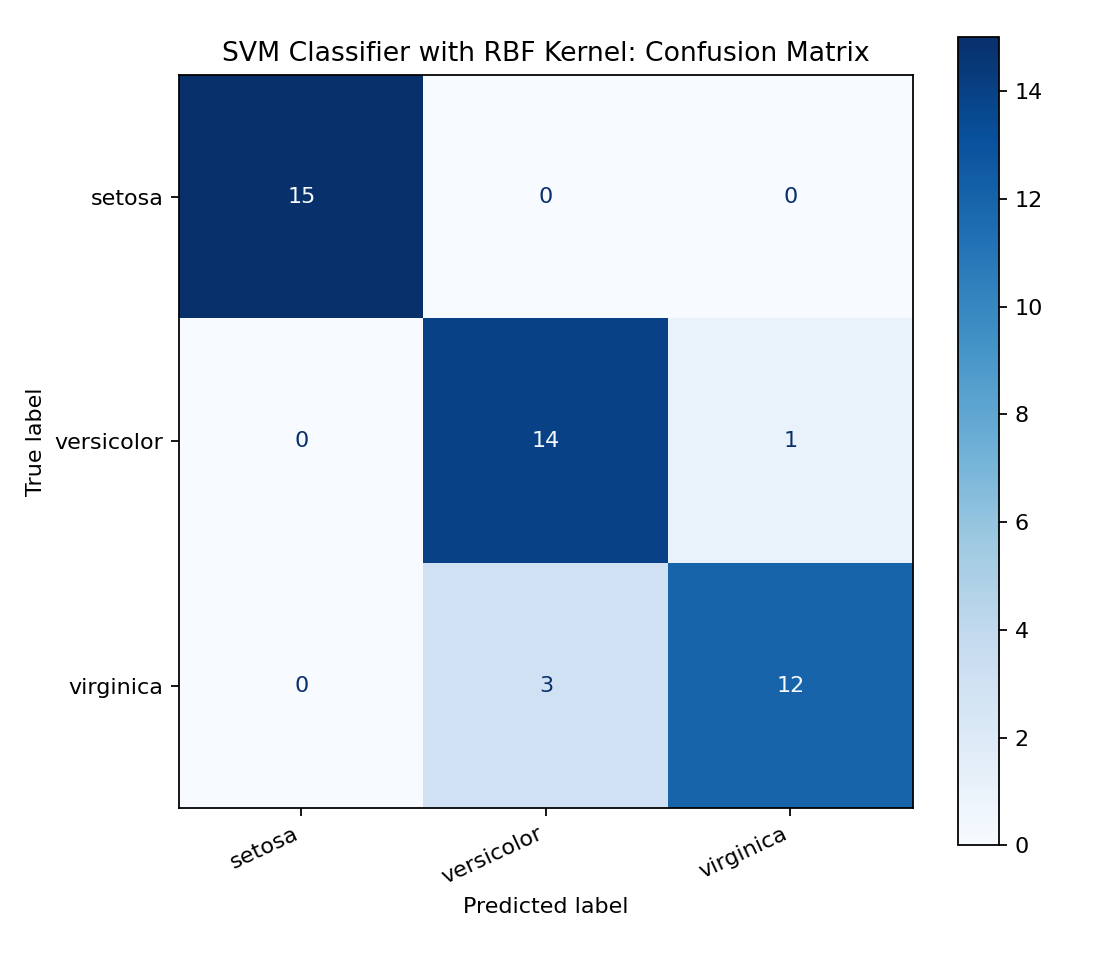
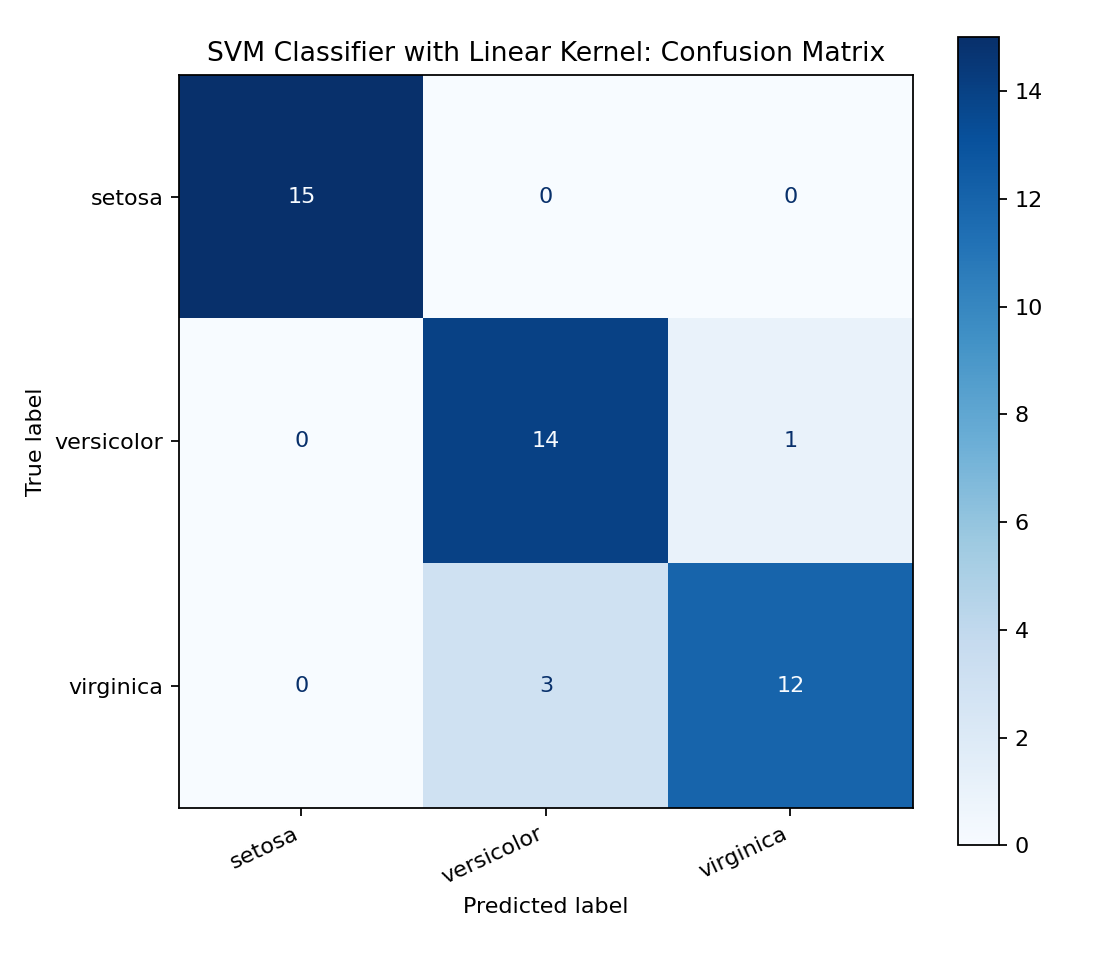
Week 5- Activity 1: Iris dataset - SVM model

Changed region(s): [[0.1875, 0.0312, 0.7812, 0.0625]]

diff --git a/Week5/Activity1/iris_svm_classification.py b/Week5/Activity1/iris_svm_classification.py
@@ -12,6 +12,7 @@ Step 4: Predict flower species and evaluate accuracy.
 
 # Step 1: Import sklearn datasets and SVM, plus support libraries for
 # data preparation, evaluation, and visualisation.
+import csv
 from pathlib import Path
 import os
 import tempfile
@@ -33,23 +34,16 @@ from sklearn.metrics import (
     recall_score,
 )
 from sklearn.model_selection import train_test_split
-from sklearn.pipeline import make_pipeline
 from sklearn.preprocessing import StandardScaler
 from sklearn.svm import SVC
 import matplotlib.pyplot as plt
-import pandas as pd
 
 
 BASE_DIR = Path(__file__).resolve().parent
 OUTPUT_DIR = BASE_DIR / "outputs"
 CLEANED_DATA_FILE = BASE_DIR / "cleaned_iris_dataset.csv"
 
-FEATURE_COLUMNS = ["sepal_length", "sepal_width", "petal_length", "petal_width"]
-TARGET_COLUMN = "species"
-CLASS_ORDER = ["setosa", "versicolor", "virginica"]
-TEST_SIZE = 0.3
-RANDOM_STATE = 15
-SVM_KERNEL = "rbf"
+SVM_KERNEL = "linear"
 
 CONFUSION_MATRIX_FILE = OUTPUT_DIR / "svm_confusion_matrix.png"
 PETAL_SCATTER_FILE = OUTPUT_DIR / "iris_petal_scatter.png"
@@ -61,41 +55,27 @@ def ensure_directories():
 
 
 # Step 2: Load the Iris dataset and prepare it for classification.
-def load_and_prepare_data():
-    """Load Iris from sklearn and perform basic data quality checks."""
+def load_iris_data():
+    """Load Iris from sklearn and define X features and y classes."""
     iris = datasets.load_iris()
 
-    # X contains the four numeric flower measurements. y contains the species
-    # class to be predicted.
-    df = pd.DataFrame(iris.data, columns=FEATURE_COLUMNS)
-    df[TARGET_COLUMN] = pd.Categorical.from_codes(iris.target, iris.target_names)
+    # Same structure as the teacher's sample code:
+    # X contains four numeric flower measurements.
+    # y contains the three species classes as numeric labels: 0, 1, and 2.
+    x = iris.data
+    y = iris.target
 
-    # Convert measurements to numeric values before model training.
-    for column in FEATURE_COLUMNS:
-        df[column] = pd.to_numeric(df[column], errors="coerce")
-
-    missing_summary = df.isna().sum().reset_index()
-    missing_summary.columns = ["Column", "Missing_Values"]
-    duplicate_count = int(df.duplicated().sum())
-
-    # Drop invalid records only if essential values are missing.
-    cleaned = df.dropna(subset=FEATURE_COLUMNS + [TARGET_COLUMN]).copy()
-    cleaned = cleaned.reset_index(drop=True)
-
-    return cleaned, missing_summary, duplicate_count
+    return iris, x, y
 
 
 # Step 3: Train the SVM classifier.
-def train_and_evaluate_model(cleaned):
+def train_and_evaluate_model(x, y):
     """Train one SVM classifier and return its test-set performance."""
-    x = cleaned[FEATURE_COLUMNS]
-    y = cleaned[TARGET_COLUMN]
-
     x_train, x_test, y_train, y_test = train_test_split(
         x,
         y,
-        test_size=TEST_SIZE,
-        random_state=RANDOM_STATE,
+        test_size=0.3,
+        random_state=42,
         stratify=y,
     )
 
@@ -103,43 +83,40 @@ def train_and_evaluate_model(cleaned):
     # X_train/y_train are used to train the model.
     # X_test/y_test are kept separate for evaluation.
     #
+    # Standardise the four feature columns before SVM training.
+    # fit_transform is used on training data, while transform applies the same
+    # scaling rule to the test data.
+    scaler = StandardScaler()
+    x_train = scaler.fit_transform(x_train)
+    x_test = scaler.transform(x_test)
+
     # This follows the scikit-learn SVM example structure:
     # create an SVC classifier, fit it on X/y training data, then predict.
-    # StandardScaler comes from sklearn.preprocessing. It standardises the
-    # four measurement columns before training, which is useful for SVM.
-    # The pipeline fits the scaler only on training data, then applies the
-    # same transformation to the test data during prediction.
-    model = make_pipeline(StandardScaler(), SVC(kernel=SVM_KERNEL))
+    model = SVC(kernel=SVM_KERNEL)
     model.fit(x_train, y_train)
 
     # Step 4: Predict flower species for the test set.
     y_pred = model.predict(x_test)
 
-    metrics = pd.DataFrame(
-        [
-            {
-                "Model": "SVM Classifier (SVC)",
-                "Kernel": SVM_KERNEL,
-                "Training_Records": len(x_train),
-                "Testing_Records": len(x_test),
-                "Accuracy": accuracy_score(y_test, y_pred),
-                "Weighted_Precision": precision_score(
-                    y_test,
-                    y_pred,
-                    labels=CLASS_ORDER,
-                    average="weighted",
-                    zero_division=0,
-                ),
-                "Weighted_Recall": recall_score(
-                    y_test,
-                    y_pred,
-                    labels=CLASS_ORDER,
-                    average="weighted",
-                    zero_division=0,
-                ),
-            }
-        ]
-    )
+    metrics = {
+        "Model": "SVM Classifier (SVC)",
+        "Kernel": SVM_KERNEL,
+        "Training_Records": len(x_train),
+        "Testing_Records": len(x_test),
+        "Accuracy": accuracy_score(y_test, y_pred),
+        "Weighted_Precision": precision_score(
+            y_test,
+            y_pred,
+            average="weighted",
+            zero_division=0,
+        ),
+        "Weighted_Recall": recall_score(
+            y_test,
+            y_pred,
+            average="weighted",
+            zero_division=0,
+        ),
+    }
 
     return {
         "x_train": x_train,
@@ -153,15 +130,16 @@ def train_and_evaluate_model(cleaned):
 
 
 # Step 4 continued: Evaluate prediction quality with a confusion matrix.
-def create_confusion_matrix_plot(y_test, y_pred):
+def create_confusion_matrix_plot(y_test, y_pred, class_names):
     """Show correct and incorrect classifications for the SVM classifier."""
-    matrix = confusion_matrix(y_test, y_pred, labels=CLASS_ORDER)
-    display = ConfusionMatrixDisplay(confusion_matrix=matrix, display_labels=CLASS_ORDER)
+    class_labels = range(len(class_names))
+    matrix = confusion_matrix(y_test, y_pred, labels=class_labels)
+    display = ConfusionMatrixDisplay(confusion_matrix=matrix, display_labels=class_names)
     fig, ax = plt.subplots(figsize=(7, 6))
     display.plot(ax=ax, cmap="Blues", colorbar=True, values_format="d")
-    ax.set_title("SVM Classifier with RBF Kernel: Confusion Matrix")
-    ax.set_xticklabels(CLASS_ORDER, rotation=25, ha="right")
-    ax.set_yticklabels(CLASS_ORDER)
+    ax.set_title("SVM Classifier with Linear Kernel: Confusion Matrix")
+    ax.set_xticklabels(class_names, rotation=25, ha="right")
+    ax.set_yticklabels(class_names)
     fig.tight_layout()
     fig.savefig(CONFUSION_MATRIX_FILE, dpi=160)
     plt.close()
@@ -170,21 +148,22 @@ def create_confusion_matrix_plot(y_test, y_pred):
 # Extra visualisation: show the dataset structure before classification.
 # This supports the SVM task by showing that petal measurements separate
 # the three species reasonably well.
-def create_petal_scatter_plot(cleaned):
+def create_petal_scatter_plot(x, y, class_names):
     """Visualise the Iris classes using petal length and petal width."""
     colors = {
-        "setosa": "#1f77b4",
-        "versicolor": "#2ca02c",
-        "virginica": "#d62728",
+        0: "#1f77b4",
+        1: "#2ca02c",
+        2: "#d62728",
     }
 
     fig, ax = plt.subplots(figsize=(8, 5.5))
-    for species, group in cleaned.groupby(TARGET_COLUMN, observed=False):
+    for class_id, class_name in enumerate(class_names):
+        rows = y == class_id
         ax.scatter(
-            group["petal_length"],
-            group["petal_width"],
-            label=species,
-            color=colors[species],
+            x[rows, 2],
+            x[rows, 3],
+            label=class_name,
+            color=colors[class_id],
             alpha=0.8,
         )
 
@@ -198,48 +177,92 @@ def create_petal_scatter_plot(cleaned):
     plt.close()
 
 
-# Save the cleaned data, model evaluation tables, and visualisations.
-def save_outputs(cleaned, missing_summary, duplicate_count, results):
-    """Save cleaned data, model outputs, and figures."""
-    cleaned.to_csv(CLEANED_DATA_FILE, index=False)
-    missing_summary.to_csv(OUTPUT_DIR / "missing_summary.csv", index=False)
-    pd.DataFrame([{"Duplicate_Rows": duplicate_count}]).to_csv(
-        OUTPUT_DIR / "duplicate_summary.csv",
-        index=False,
-    )
-    cleaned[TARGET_COLUMN].value_counts().rename_axis("Species").reset_index(name="Count").to_csv(
-        OUTPUT_DIR / "class_distribution.csv",
-        index=False,
-    )
-    results["metrics"].to_csv(OUTPUT_DIR / "svm_model_accuracy.csv", index=False)
+def save_clean_dataset(iris, x, y):
+    """Save a readable copy of the Iris data used in the analysis."""
+    feature_names = [name.replace(" (cm)", "").replace(" ", "_") for name in iris.feature_names]
+    with CLEANED_DATA_FILE.open("w", newline="", encoding="utf-8") as file:
+        writer = csv.writer(file)
+        writer.writerow(feature_names + ["species"])
+        for measurements, class_id in zip(x, y):
+            writer.writerow(list(measurements) + [iris.target_names[class_id]])
 
+
+def save_metrics(results):
+    """Save accuracy, precision, recall, and confusion matrix values."""
+    with (OUTPUT_DIR / "svm_model_accuracy.csv").open("w", newline="", encoding="utf-8") as file:
+        writer = csv.DictWriter(file, fieldnames=results["metrics"].keys())
+        writer.writeheader()
+        writer.writerow(results["metrics"])
+
+
+def save_classification_report(results, class_names):
+    """Save the detailed classification report from sklearn."""
     report = classification_report(
         results["y_test"],
         results["prediction"],
-        labels=CLASS_ORDER,
+        target_names=class_names,
         output_dict=True,
         zero_division=0,
     )
-    pd.DataFrame(report).T.to_csv(OUTPUT_DIR / "svm_classification_report.csv")
-    pd.DataFrame(
-        confusion_matrix(results["y_test"], results["prediction"], labels=CLASS_ORDER),
-        index=CLASS_ORDER,
-        columns=CLASS_ORDER,
-    ).to_csv(OUTPUT_DIR / "svm_confusion_matrix.csv")
 
-    create_petal_scatter_plot(cleaned)
-    create_confusion_matrix_plot(results["y_test"], results["prediction"])
+    with (OUTPUT_DIR / "svm_classification_report.csv").open(
+        "w",
+        newline="",
+        encoding="utf-8",
+    ) as file:
+        fieldnames = ["Class", "Precision", "Recall", "F1_Score", "Support"]
+        writer = csv.DictWriter(file, fieldnames=fieldnames)
+        writer.writeheader()
+        for row_name in list(class_names) + ["macro avg", "weighted avg"]:
+            row = report[row_name]
+            writer.writerow(
+                {
+                    "Class": row_name,
+                    "Precision": row["precision"],
+                    "Recall": row["recall"],
+                    "F1_Score": row["f1-score"],
+                    "Support": row["support"],
+                }
+            )
 
-    print("Model: SVM Classifier (SVC, RBF kernel)")
+
+def save_confusion_matrix(results, class_names):
+    """Save the confusion matrix values in CSV format."""
+    matrix = confusion_matrix(
+        results["y_test"],
+        results["prediction"],
+        labels=range(len(class_names)),
+    )
+
+    with (OUTPUT_DIR / "svm_confusion_matrix.csv").open("w", newline="", encoding="utf-8") as file:
+        writer = csv.writer(file)
+        writer.writerow(["Actual/Predicted"] + list(class_names))
+        for class_name, row in zip(class_names, matrix):
+            writer.writerow([class_name] + list(row))
+
+
+# Save the dataset, model evaluation tables, and visualisations.
+def save_outputs(iris, x, y, results):
+    """Save cleaned data, model outputs, and figures."""
+    class_names = iris.target_names
+
+    save_clean_dataset(iris, x, y)
+    save_metrics(results)
+    save_classification_report(results, class_names)
+    save_confusion_matrix(results, class_names)
+    create_petal_scatter_plot(x, y, class_names)
+    create_confusion_matrix_plot(results["y_test"], results["prediction"], class_names)
+
+    print("Model: SVM Classifier (SVC, linear kernel)")
     print(f"Analysis outputs saved to: {OUTPUT_DIR}")
 
 
 def main():
     """Run the full Iris SVM classification workflow."""
     ensure_directories()
-    cleaned, missing_summary, duplicate_count = load_and_prepare_data()
-    results = train_and_evaluate_model(cleaned)
-    save_outputs(cleaned, missing_summary, duplicate_count, results)
+    iris, x, y = load_iris_data()
+    results = train_and_evaluate_model(x, y)
+    save_outputs(iris, x, y, results)
 
 
 if __name__ == "__main__":

diff --git a/Week5/Activity1/svm_classification_report.md b/Week5/Activity1/svm_classification_report.md
@@ -24,10 +24,10 @@ The dataset contains 150 records and 3 balanced classes:
 
 Cleaning steps:
 
-- Loaded the Iris data into a pandas DataFrame.
-- Converted all four measurement columns to numeric values.
-- Checked missing values.
-- Checked duplicate rows.
+- Loaded the Iris data directly from `datasets.load_iris()`.
+- Defined `x = iris.data` as the four flower measurement features.
+- Defined `y = iris.target` as the three flower species classes.
+- Used the clean dataset provided by scikit-learn for model training and testing.
 
 No missing values were found.
 
@@ -42,19 +42,21 @@ iris_svm_classification.py
 Main logic:
 
 1. Load and prepare the Iris data from scikit-learn.
-2. Use the four flower measurements as `X`.
-3. Use the three Iris species classes as `y`.
+2. Define `x = iris.data` as the four flower measurements.
+3. Define `y = iris.target` as the three Iris species classes.
 4. Split the 150 records into training and testing sets using a 70/30 split: 105 records for training and 45 records for testing.
-5. Standardise the four numeric features using `StandardScaler` from `sklearn.preprocessing`.
-6. Train one SVM classifier using `SVC(kernel="rbf")`.
+5. Standardise the four feature columns using `StandardScaler` from `sklearn.preprocessing`.
+6. Train one SVM classifier using `SVC(kernel="linear")`.
 7. Use the trained model to predict the test set.
 8. Evaluate the result using accuracy, a classification report, and a confusion matrix.
 
 This is a multi-class classification task because `y` contains three classes: `setosa`, `versicolor`, and `virginica`. The `SVC` classifier can handle these three class labels directly.
 
-The split uses `random_state=15` so that the same records are selected for training and testing each time the script is run. The number 15 has no special statistical meaning; it is simply a fixed seed. Using a fixed seed makes the result reproducible, which is useful when submitting and explaining the work.
+The split uses `random_state=42` so that the same records are selected for training and testing each time the script is run. The number 42 has no special statistical meaning; it is simply a fixed seed. Using a fixed seed makes the result reproducible, which is useful when submitting and explaining the work.
 
-The scaler and SVM classifier are connected with a pipeline. This means the scaler is fitted on the training data only, then the same scaling rule is applied to the test data before prediction.
+The scaler uses `fit_transform()` on the training data and `transform()` on the test data. This keeps the train/test split separate while applying the same scaling rule to both sets.
+
+If a different result is obtained, the main reasons are usually a different `random_state`, which changes the train/test samples, or a different SVM `kernel`, which changes the decision boundary used by the classifier.
 
 ## Data Visualisation
 
@@ -68,9 +70,9 @@ The plot helps this task because it shows that the classes have visible patterns
 
 | Model | Kernel | Accuracy | Weighted Precision | Weighted Recall |
 | --- | --- | --- | --- | --- |
-| SVM Classifier (SVC) | rbf | 0.9111 | 0.9155 | 0.9111 |
+| SVM Classifier (SVC) | linear | 0.9111 | 0.9155 | 0.9111 |
 
-The SVM classifier correctly predicted 41 of the 45 test samples. The accuracy is therefore **0.9111**, which means about 91.11% of the test samples were classified correctly.
+The SVM classifier correctly predicted 41 of the 45 test samples. The accuracy is therefore **0.9111**, which means about 91.11% of the selected test samples were classified correctly.
 
 ## Confusion Matrix
 
@@ -80,4 +82,4 @@ The confusion matrix shows that all 15 `setosa` samples were classified correctl
 
 ## Conclusion
 
-SVM is suitable for the Iris classification task because the dataset has numeric measurements and three clearly defined species classes. With the selected 70/30 train/test split, the RBF SVM classifier achieved 91.11% accuracy on the test set.
+SVM is suitable for the Iris classification task because the dataset has numeric measurements and three clearly defined species classes. With the selected 70/30 train/test split, the linear SVM classifier achieved 91.11% accuracy on the test set.
